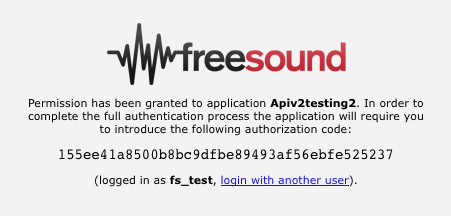
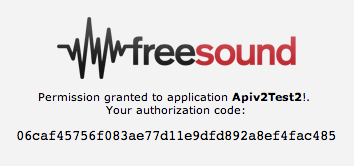
#488 improved api docs and simplified minimal log in and authorization templates

Changed region(s): [[0.0621, 0.0904, 0.9322, 0.753], [0.0311, 0.7831, 0.9633, 0.8735]]

diff --git a/templates/api/minimal_authorize_app.html b/templates/api/minimal_authorize_app.html
@@ -28,12 +28,16 @@
 
     <img src="/media/images/logo.png"/>
     {% if not error %}
-        <p>Hi {{ user.username }}!</p>
-        <p>The application <strong>{{ client.name }}</strong> has requested permission to access your data with the following permissions: {{ client.apiv2_client.get_scope_display }}</p>
+        {% comment %}<p>Hi {{ user.username }}!</p>{% endcomment %}
+        <p>The application <strong>{{ client.name }}</strong> is requesting<br> permission to access your data.
+           {% comment %} with the following permissions: {{ client.apiv2_client.get_scope_display }} {% endcomment %}
+        </p>
+        {% comment %}
         <p>
             Granting permission to access your data means that you allow the application to act on your behealf inside Freesound.
             You can revoke the permissions you have given to an application at any time by visiting your Freesound settings page.
         </p>
+        {% endcomment %}
         <form method="post" action="{% url "oauth2:authorize" %}/?original_path={{ original_path }}">
             {% csrf_token %}
             {{ form.errors }}
@@ -42,12 +46,14 @@
             <input type="submit" class="btn login large primary" name="authorize" value="Authorize!" />
         </form>
 
-        <p>({% comment %}logged in as <strong>{{ request.user }}</strong>, {% endcomment %}<a href="{% url "api-logout" %}?next={{ original_path }}">login with another user</a>).</p>
+        <p>(logged in as <strong>{{ request.user }}</strong>, <a href="{% url "api-logout" %}?next={{ original_path }}">login as another user</a>)</p>
     {% else %}
         <p>Ops! there were some errors...</p>
-        {{ error }}
-        <p>{{ error_description }}</p>
-        <p>You should probably start again the authorization process from the 3rd party application!</p>
+
+        <!--error: {{ error }} -->
+        {% comment %}<p>{{ error_description }}</p>
+
+        <p>You should probably start again the authorization process from the 3rd party application!</p>{% endcomment %}
     {% endif %}
 
 </div>

diff --git a/templates/api/minimal_app_authorized.html b/templates/api/minimal_app_authorized.html
@@ -26,18 +26,19 @@
      <img src="/media/images/logo.png"/>
      {% if app_name and code %}
             <p>
-                Permission has been granted to application <strong>{{ app_name }}</strong>.
-                In order to complete the full authentication process the application will require you to introduce the following authorization code:
+                Permission granted to application <strong>{{ app_name }}</strong>!.
+                <br>Your authorization code:
+                {% comment %}In order to complete the full authentication process the application will require you to introduce the following authorization code:{% endcomment %}
             </p>
 
             <div style="font-size:14px;font-family:'Courier';">{{ code }}</div>
 
-            <p>(logged in as <strong>{{ request.user }}</strong>, <a href="{% url api-logout %}?next={{ logout_next }}">login with another user</a>).</p>
+            {% comment %}<p>(logged in as <strong>{{ request.user }}</strong>, <a href="{% url api-logout %}?next={{ logout_next }}">login as another user</a>).</p>{% endcomment %}
 
         {% else %}
 
             <p>Access has been denied.</p>
-            <p>In case you clicked on "Authorize!" some errors might have occurred. You should probably start again the authorization process from the 3rd party application!</p>
+            {% comment %}<p>In case you clicked on "Authorize!" some errors might have occurred. You should probably start again the authorization process from the 3rd party application!</p>{% endcomment %}
 
         {% endif %}
 
